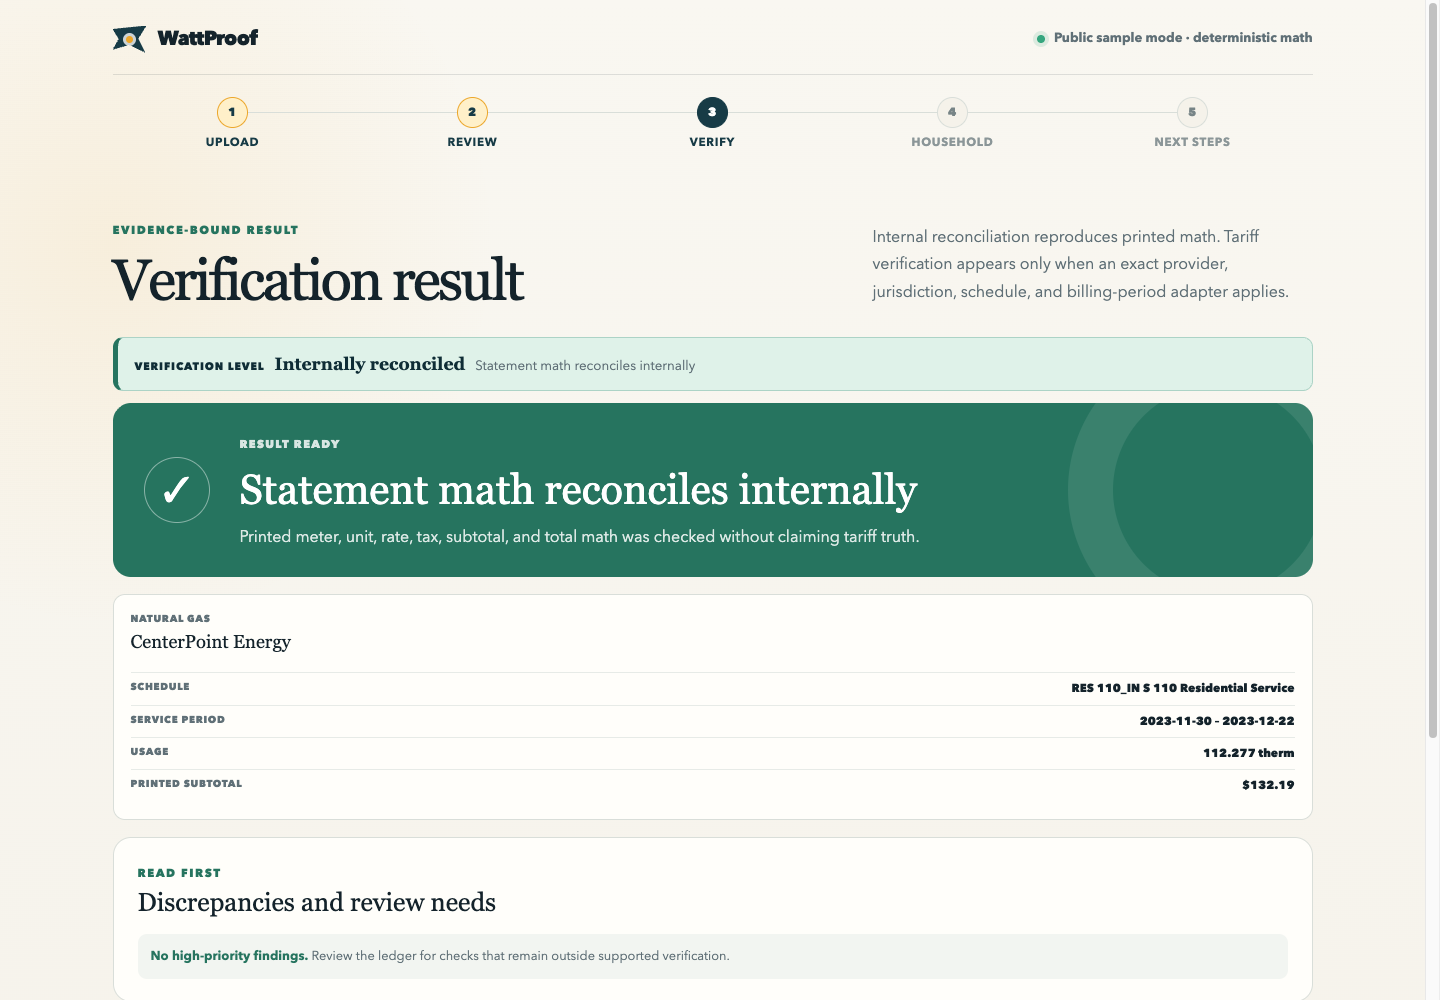
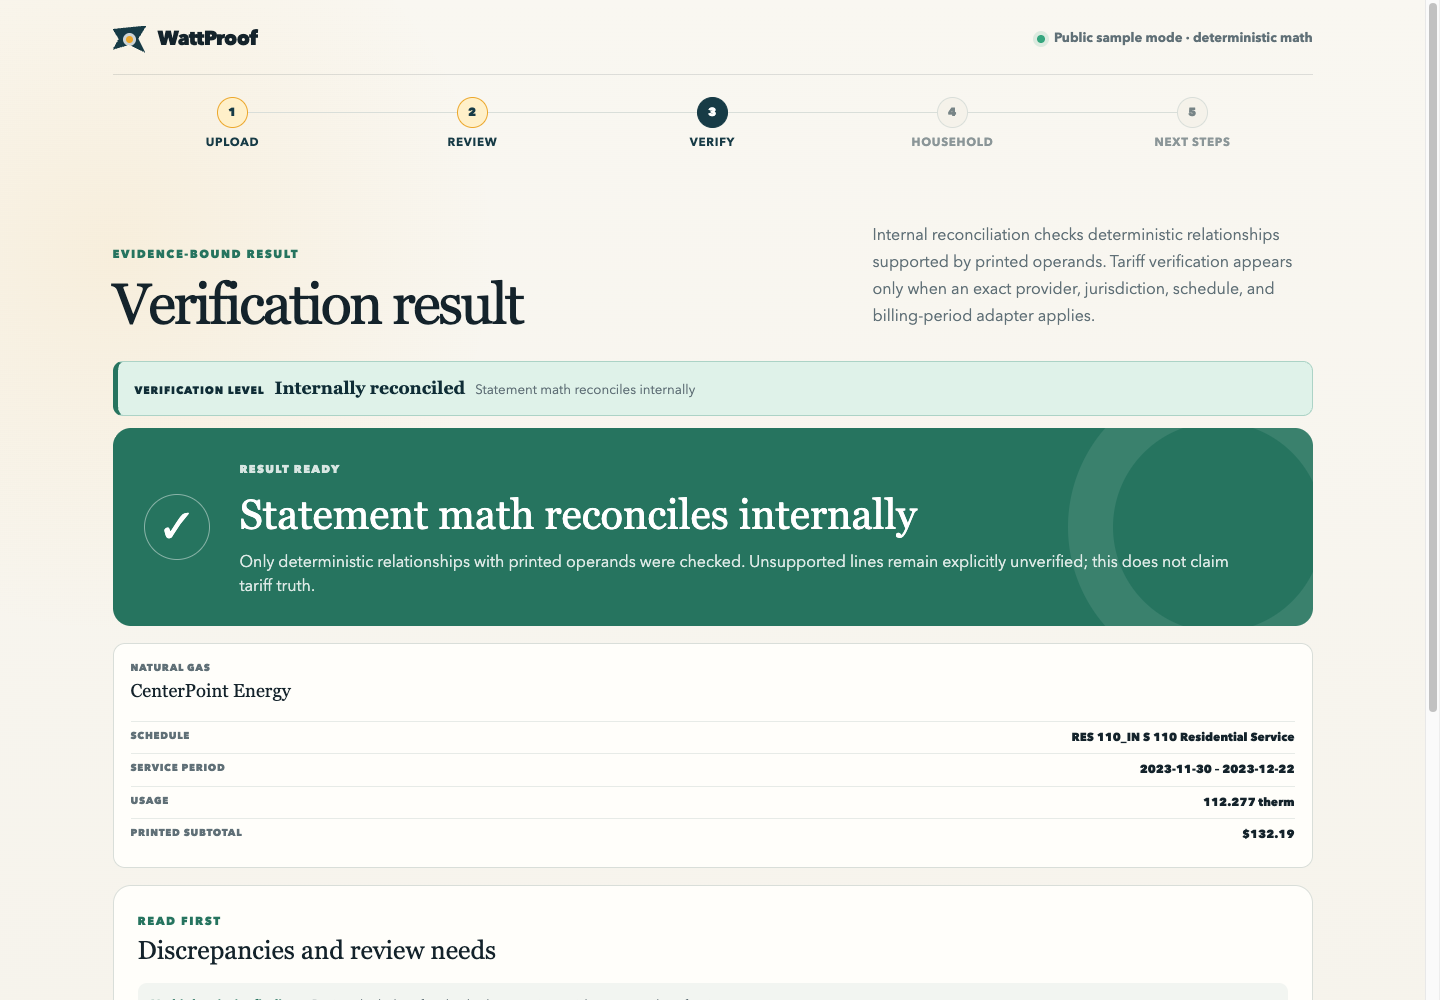
Refresh bounded utility screenshots

diff --git a/docs/screenshots/README.md b/docs/screenshots/README.md
@@ -1,9 +1,13 @@
 # Screenshot evidence
 
-These seven PNGs are direct viewport captures of the real Flask application running
-from UI source commit
+These seven PNGs are direct viewport captures of the real Flask application. Each
+manifest row records its exact source commit. Five captures remain from
 `9a5611880a0f9ee0e4fdfe6cb04a706304c4905c` (`Refresh bundle summaries and release
-previews`). No production UI or backend file differed from that commit during capture.
+previews`). The Duke and CenterPoint results were refreshed from
+`5322b830f0831037635b659c4c8730a6adba3e72` (`Reject oversized PDFs before reading`)
+to show the bounded internal-reconciliation copy and the current printed-usage
+relationship checks. No production UI or backend file differed from the source
+commit listed for an image during its capture.
 
 Every image was produced by Chromium from the real Flask application on a loopback
 test server after activating the visible application controls. The manual procedure
@@ -17,8 +21,8 @@ were used; no upload, account identity, private bill, or personal data appears.
 | --- | --- | --- | --- | --- | --- | --- |
 | `multi-utility-upload-desktop.png` | `1440 × 1000` | None selected; all public fixture controls visible | Open `/`; keep Upload at `scrollY=0` | N/A — Upload | `9a5611880a0f9ee0e4fdfe6cb04a706304c4905c` | Real Flask/Chrome viewport; public controls only; no PII |
 | `pge-tariff-verified-desktop.png` | `1440 × 1000` | Public anonymized PG&E/3CE authentic fixture | Upload → **Audit authentic sample** → Review → **Confirm & run checks**; capture the top of Verify | **Tariff verified** | `9a5611880a0f9ee0e4fdfe6cb04a706304c4905c` | Real Flask/Chrome clicks; anonymized public fixture; no PII |
-| `duke-internal-reconciliation-desktop.png` | `1440 × 1000` | Public illustrative Duke electricity fixture | Upload → **Duke Electric** → Review → **Confirm & run checks**; capture the top of Verify | **Internally reconciled** | `9a5611880a0f9ee0e4fdfe6cb04a706304c4905c` | Real Flask/Chrome clicks; public illustrative fixture; no PII |
-| `centerpoint-gas-desktop.png` | `1440 × 1000` | Public CenterPoint gas fixture | Upload → **CenterPoint Gas** → Review → **Confirm & run checks**; capture the top of Verify | **Internally reconciled** | `9a5611880a0f9ee0e4fdfe6cb04a706304c4905c` | Real Flask/Chrome clicks; rendered public values only; no PII |
+| `duke-internal-reconciliation-desktop.png` | `1440 × 1000` | Public illustrative Duke electricity fixture | Upload → **Duke Electric** → Review → **Confirm & run checks**; capture the top of Verify | **Internally reconciled** | `5322b830f0831037635b659c4c8730a6adba3e72` | Real Flask/Chrome clicks; public illustrative fixture; bounded internal-only result; no PII |
+| `centerpoint-gas-desktop.png` | `1440 × 1000` | Public CenterPoint gas fixture | Upload → **CenterPoint Gas** → Review → **Confirm & run checks**; capture the top of Verify | **Internally reconciled** | `5322b830f0831037635b659c4c8730a6adba3e72` | Real Flask/Chrome clicks; rendered public values only; bounded internal-only result; no PII |
 | `household-bundle-desktop.png` | `1440 × 1000` | Duke → CenterPoint → Bloomington | Complete Duke → **Add another bill** → complete CenterPoint → **Add another bill** → complete Bloomington → **Finish household review**; capture Household at the top | **Internally reconciled** on all three retained cards | `9a5611880a0f9ee0e4fdfe6cb04a706304c4905c` | Real sequential Flask/Chrome flow; three public fixtures; no PII |
 | `water-review-mobile.png` | `390 × 844` | Public Bloomington water/city-services fixture | Upload → **Bloomington Water**; wait for Review, return to a settled `scrollY=0`, and capture | N/A — Review | `9a5611880a0f9ee0e4fdfe6cb04a706304c4905c` | Real responsive Flask/Chrome viewport; public raster fixture; no PII |
 | `household-result-mobile.png` | `390 × 844` | Duke → CenterPoint → Bloomington | Repeat the sequential household flow; after the responsive layout settles, align the first Duke card with `scrollIntoView({block: "start"})` and scroll back 12 px | **Internally reconciled** visibly shown on Duke and CenterPoint cards | `9a5611880a0f9ee0e4fdfe6cb04a706304c4905c` | Real responsive Flask/Chrome viewport; public fixtures; no PII |